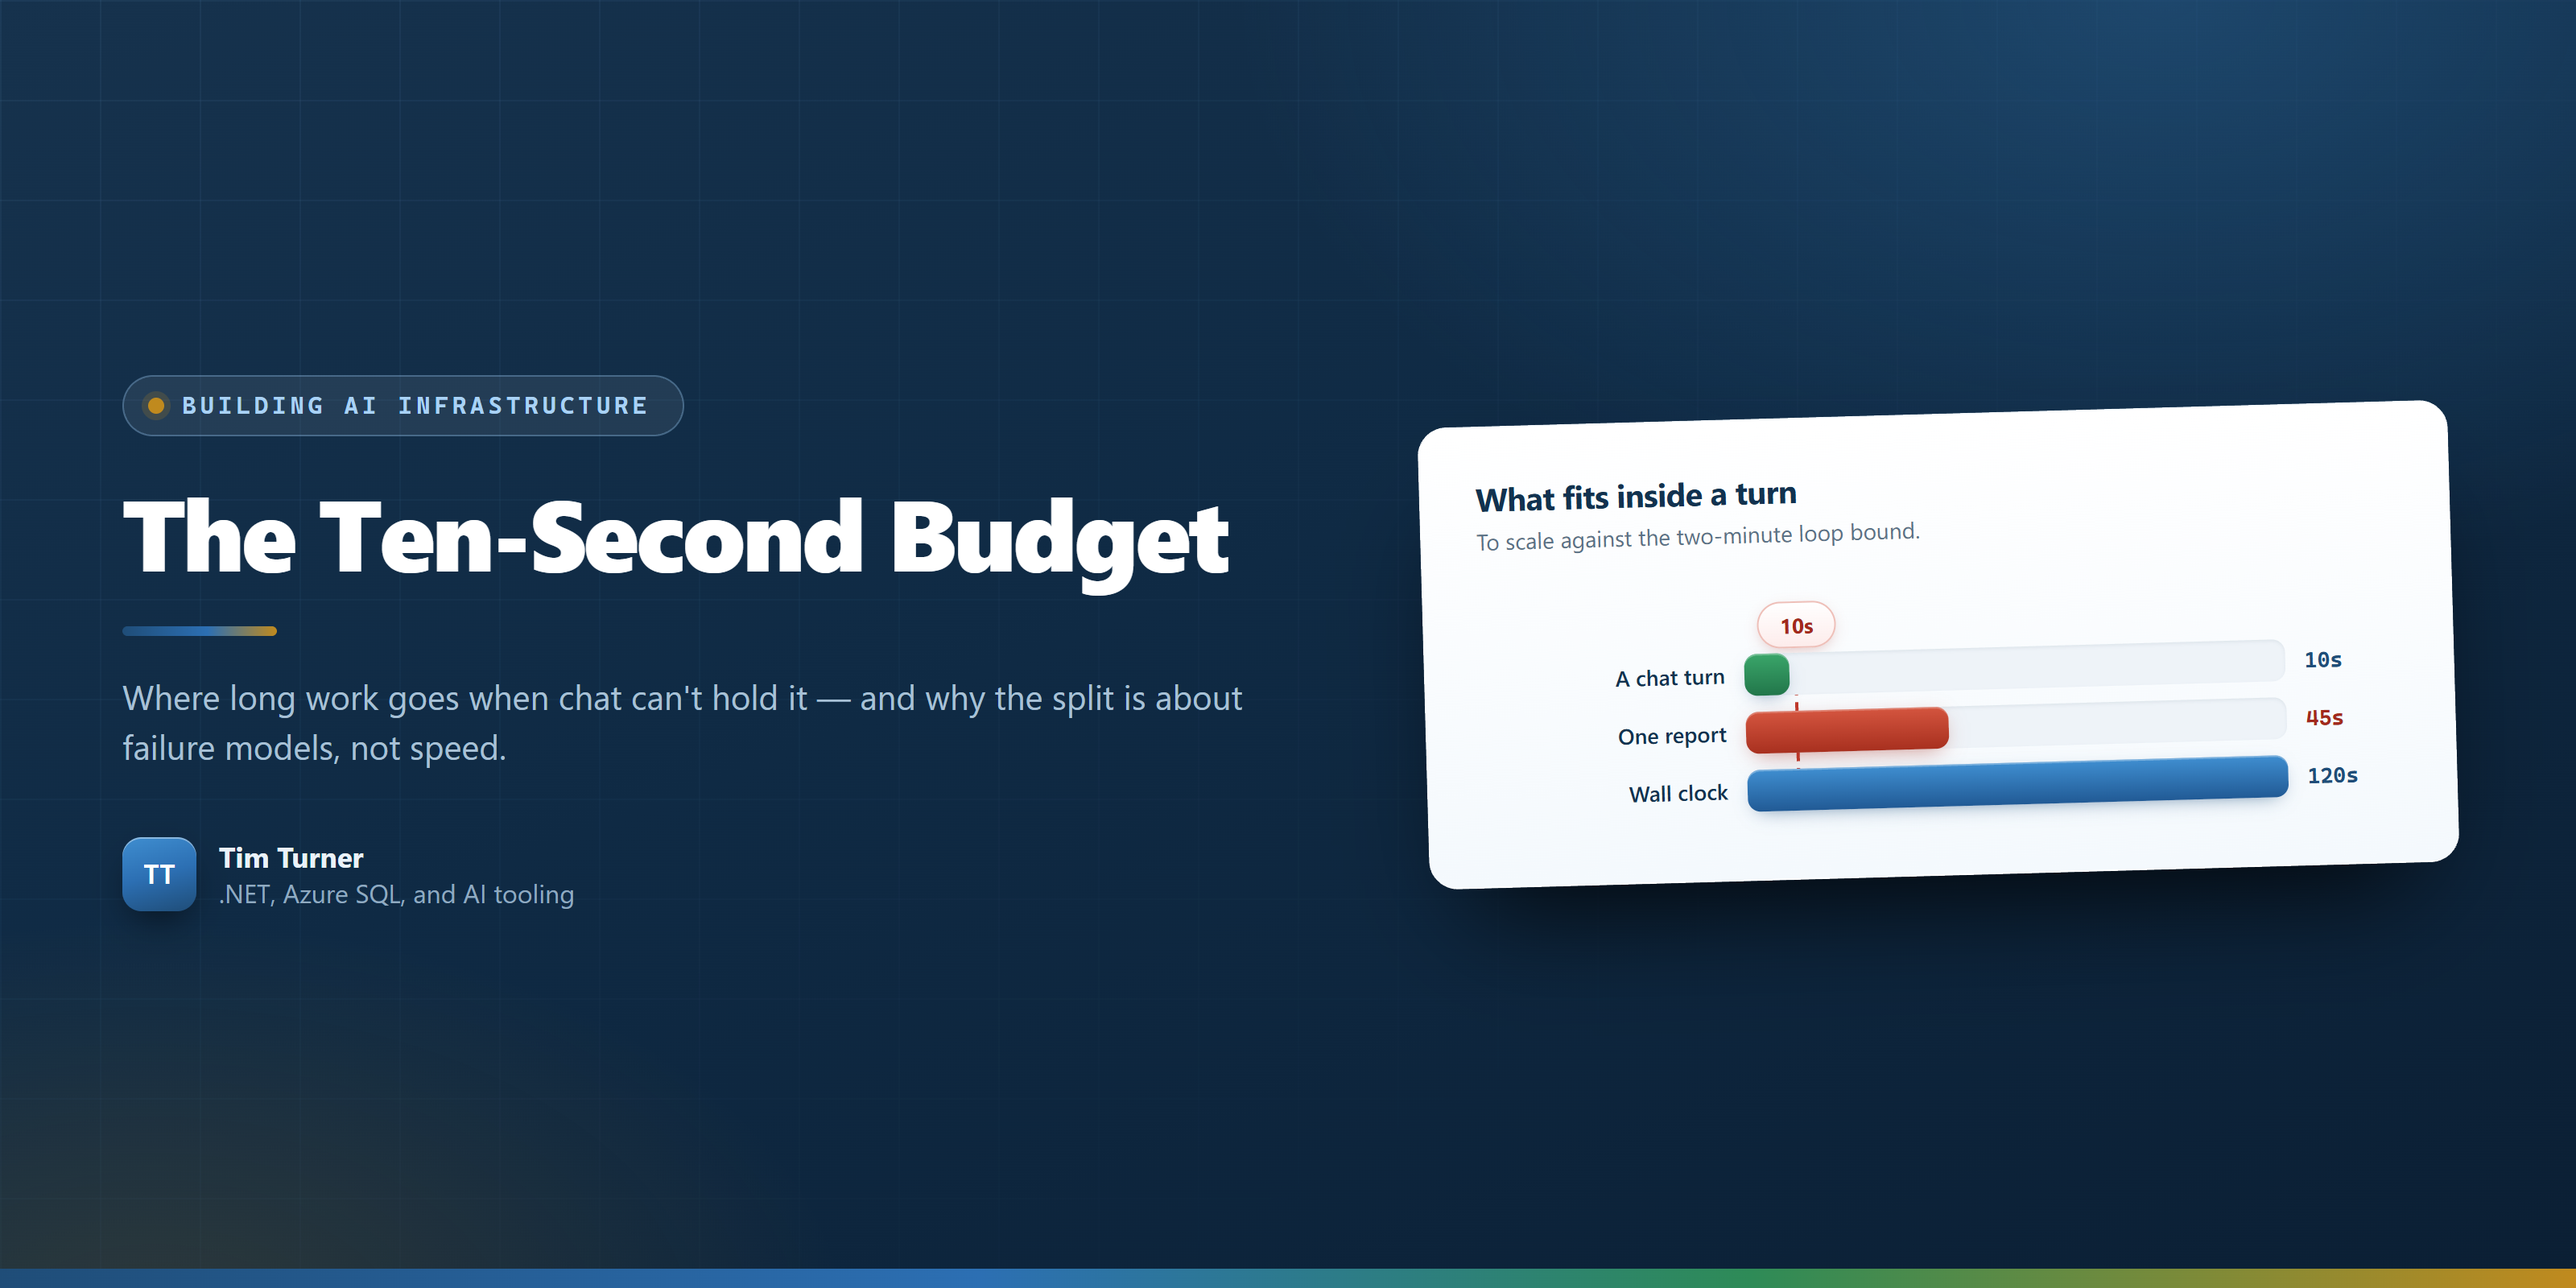
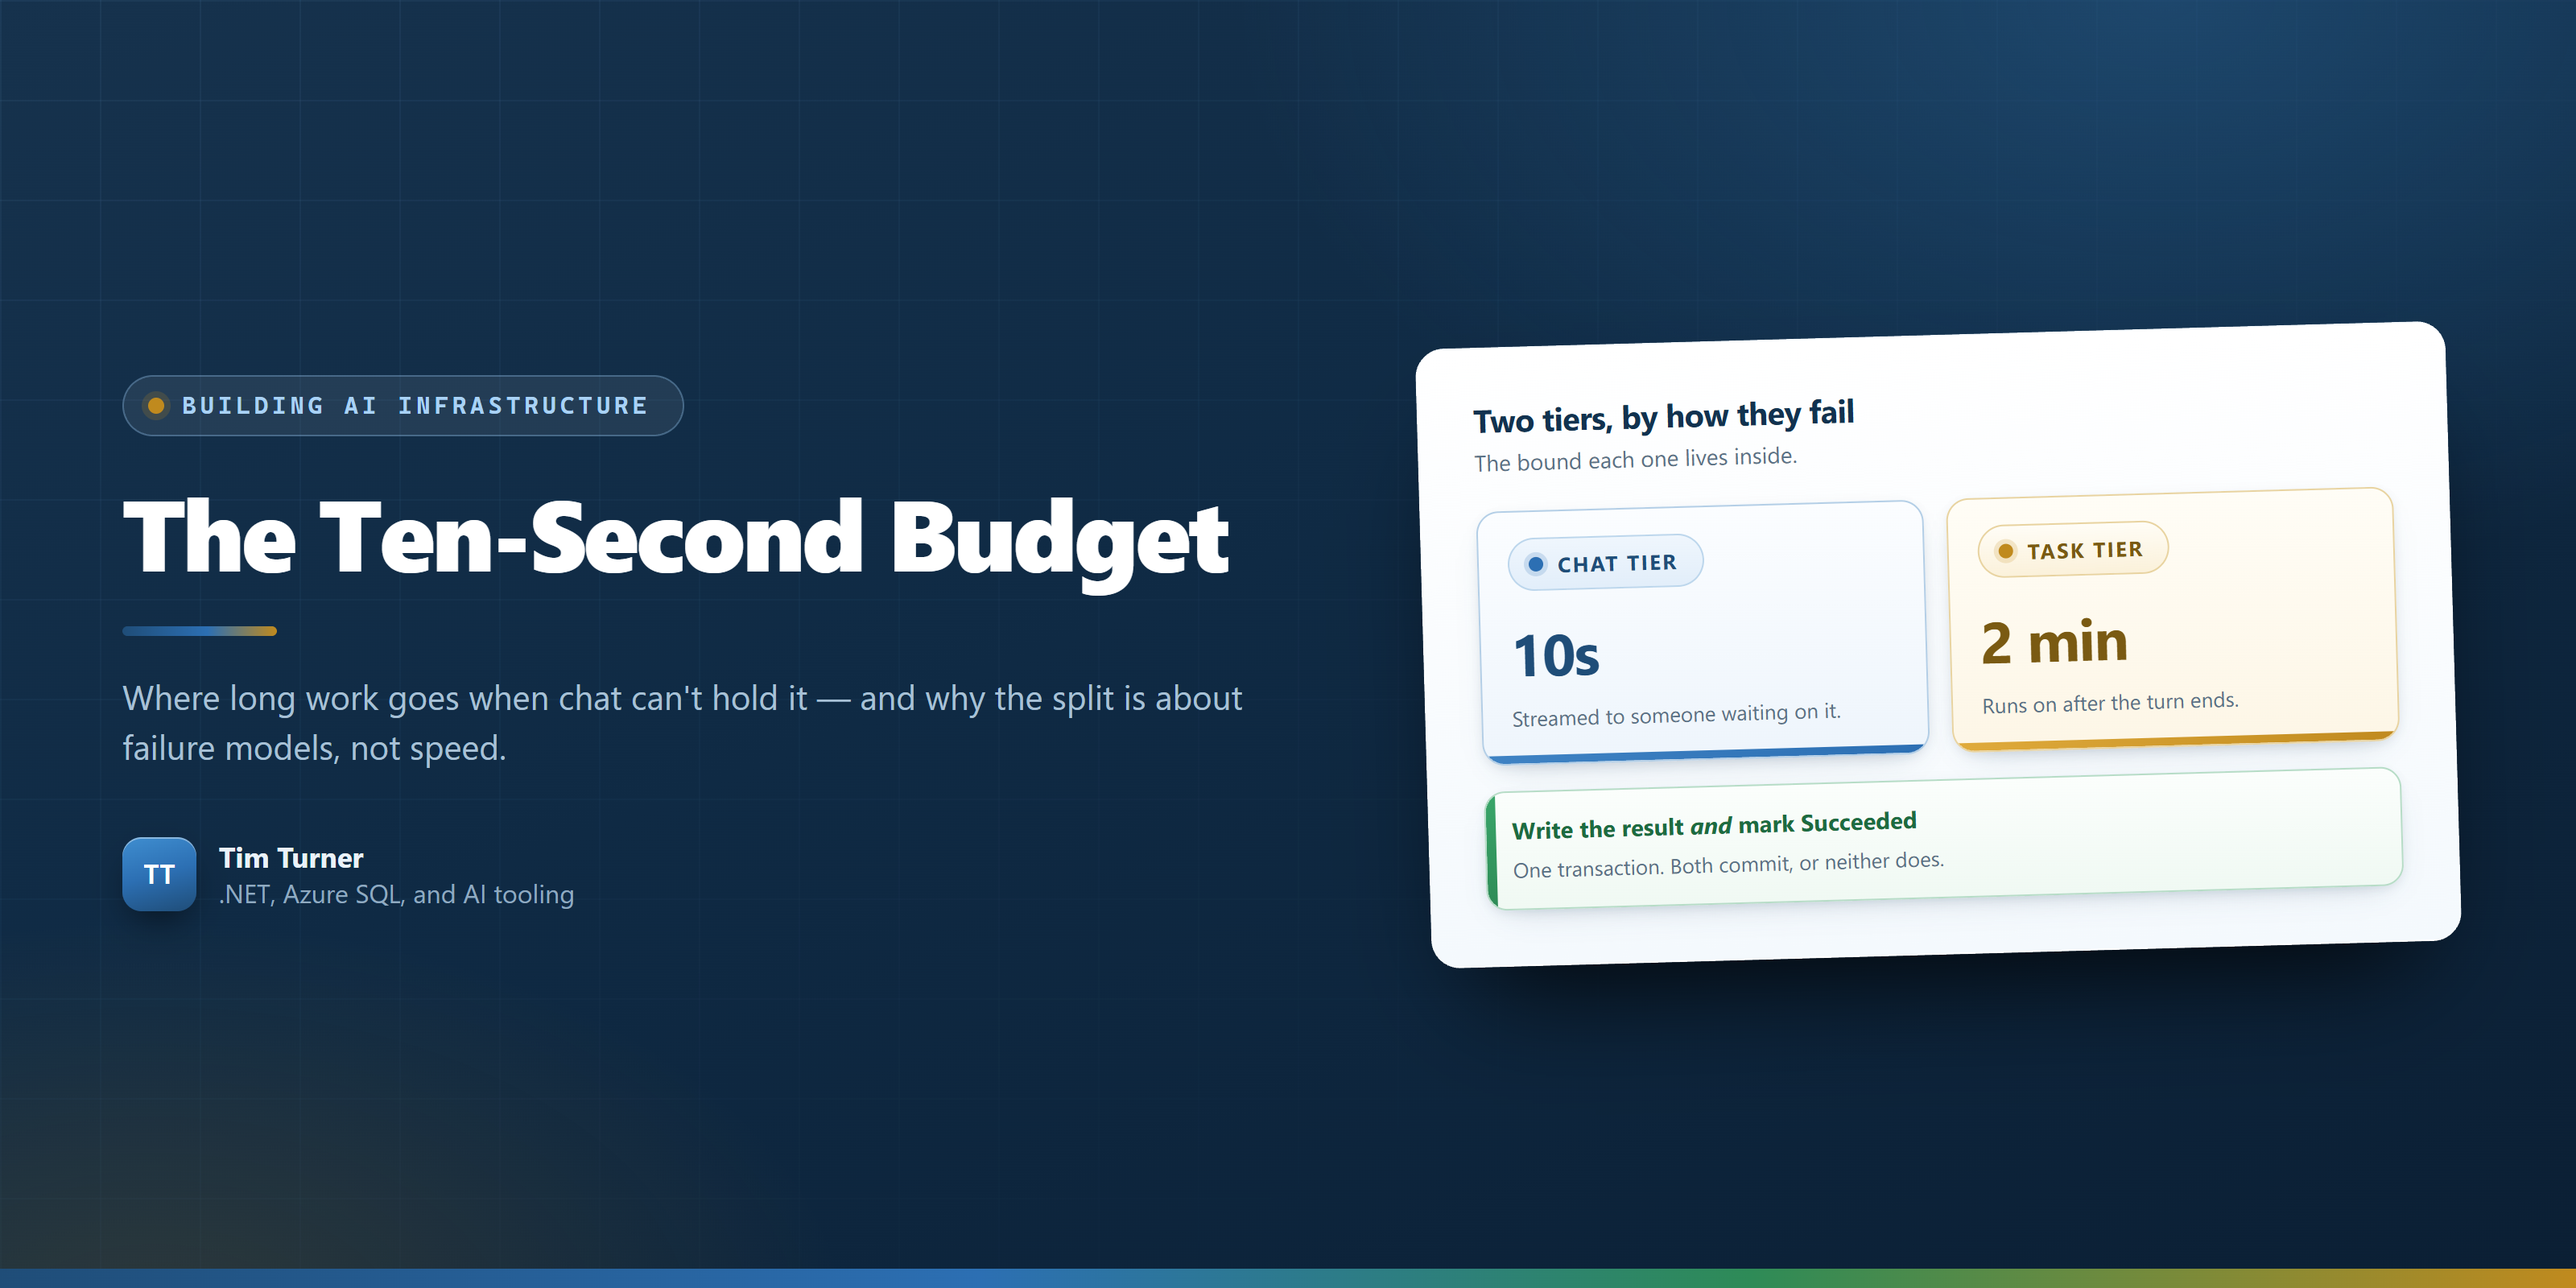
Swap the header card to the two-tiers figure
The header embedded a miniature of turn-budget.html and the body embeds
the full version twenty lines later, so a reader met the same three bars
twice inside the first screen and a half. The card now carries the
two-tiers content instead: the two bounds, and the completing
transaction as one box.

It also survives the thumbnail better. At 330px the three bars collapsed
into indistinct lines, where 10s and 2 min stay readable.

Lockup untouched - kicker, monogram, title treatment and foot bar are
the part a reader recognizes in a feed.

Changed region(s): [[0.5312, 0.25, 0.9688, 0.75]]

diff --git a/ten-second-budget/support-files/header-ten-second-budget.html b/ten-second-budget/support-files/header-ten-second-budget.html
@@ -7,6 +7,10 @@
   width Medium shows in a feed card. A light-ground variant was built and
   rejected: it read as no image at all against Medium's white page.
 
+  The card holds a miniature of two-tiers.html, not turn-budget.html: the body
+  embeds the turn-budget bars, and carrying the same chart in the header meant a
+  reader met the identical figure twice inside the first screen and a half.
+
   Drawn here with Article 5's content. To reuse: copy into
   <article>/support-files/header-<slug>.html, change the title, the subtitle and
   the figure in the right-hand card, and leave everything else alone. The kicker,
@@ -53,29 +57,25 @@
 
   <div class="hdr-art">
     <div class="hdr-card">
-      <div class="fig-title">What fits inside a turn</div>
-      <div class="fig-sub">To scale against the two-minute loop bound.</div>
+      <div class="fig-title">Two tiers, by how they fail</div>
+      <div class="fig-sub">The bound each one lives inside.</div>
 
-      <div class="bars" style="padding-top: 48px">
-        <div class="bar-zone" style="left: 168px; right: 74px; top: 48px">
-          <div class="threshold" style="left: 8.3%"><div class="threshold-label">10s</div></div>
+      <div style="display:grid; grid-template-columns:1fr 1fr; gap:14px; margin-top:20px">
+        <div class="panel cool" style="padding:16px 18px; min-height:158px; box-sizing:border-box">
+          <span class="tag info" style="margin:0"><span class="dot"></span>Chat tier</span>
+          <div class="panel-bound" style="margin:14px 0 8px"><span class="num" style="font-size:36px">10s</span></div>
+          <div style="font-size:13px; color:var(--muted); line-height:1.45">Streamed to someone waiting on it.</div>
         </div>
+        <div class="panel warm" style="padding:16px 18px; min-height:158px; box-sizing:border-box">
+          <span class="tag" style="margin:0; background:linear-gradient(180deg,#fffdf6,#fbf1da); color:#7a5a12; border:1px solid #e8d3a0"><span class="dot" style="background:#c08a1e; box-shadow:0 0 0 3px rgba(192,138,30,.18)"></span>Task tier</span>
+          <div class="panel-bound" style="margin:14px 0 8px"><span class="num" style="font-size:36px">2 min</span></div>
+          <div style="font-size:13px; color:var(--muted); line-height:1.45">Runs on after the turn ends.</div>
+        </div>
+      </div>
 
-        <div class="bar-row" style="grid-template-columns: 152px 1fr 58px; gap: 12px; margin-bottom: 10px">
-          <div class="bar-name" style="font-size: 13.5px">A chat turn</div>
-          <div class="bar-track" style="height: 26px"><div class="bar-fill ok" style="width: 8.3%"></div></div>
-          <div class="bar-val" style="font-size: 13.5px">10s</div>
-        </div>
-        <div class="bar-row" style="grid-template-columns: 152px 1fr 58px; gap: 12px; margin-bottom: 10px">
-          <div class="bar-name" style="font-size: 13.5px">One report</div>
-          <div class="bar-track" style="height: 26px"><div class="bar-fill over" style="width: 37.5%"></div></div>
-          <div class="bar-val over" style="font-size: 13.5px">45s</div>
-        </div>
-        <div class="bar-row" style="grid-template-columns: 152px 1fr 58px; gap: 12px; margin-bottom: 0">
-          <div class="bar-name" style="font-size: 13.5px">Wall clock</div>
-          <div class="bar-track" style="height: 26px"><div class="bar-fill" style="width: 100%"></div></div>
-          <div class="bar-val" style="font-size: 13.5px">120s</div>
-        </div>
+      <div class="node green" style="margin-top:16px; padding:14px 16px">
+        <div class="node-name" style="font-size:14.5px">Write the result <i>and</i> mark Succeeded</div>
+        <div class="node-meta" style="margin-top:6px">One transaction. Both commit, or neither does.</div>
       </div>
     </div>
   </div>

diff --git a/ten-second-budget/README.md b/ten-second-budget/README.md
@@ -97,7 +97,7 @@ nobody asked for — and this is the set of invariants that survive it.
 
 | File | What it is |
 |---|---|
-| [`header-ten-second-budget.png`](header-ten-second-budget.png) / [`.webp`](header-ten-second-budget.webp) | Header image, 1600x800. Authored HTML rendered through headless Chrome — no image model. Source in [`support-files/header-ten-second-budget.html`](support-files/header-ten-second-budget.html). |
+| [`header-ten-second-budget.png`](header-ten-second-budget.png) / [`.webp`](header-ten-second-budget.webp) | Header image, 1600x800. Authored HTML rendered through headless Chrome — no image model. The card holds a miniature of the two-tiers figure rather than the turn-budget bars, so the header and the body do not show the same chart inside the first screen. Source in [`support-files/header-ten-second-budget.html`](support-files/header-ten-second-budget.html). |
 | [`turn-budget.png`](turn-budget.png) / [`.webp`](turn-budget.webp) | The three bounds drawn to scale against the two-minute loop bound, with the ten-second budget drawn through them. Source in [`support-files/turn-budget.html`](support-files/turn-budget.html). |
 | [`two-tiers.png`](two-tiers.png) / [`.webp`](two-tiers.webp) | The tiers labeled by failure model rather than happy path, and the single completing transaction that keeps the result table answerable. Source in [`support-files/two-tiers.html`](support-files/two-tiers.html). |
 | [`code-samples/01-task-kickoff-skill.cs`](code-samples/01-task-kickoff-skill.cs) | The kickoff skill. The point of the file is how ordinary it is — no branch, no background-mode flag, nothing for the existing tool-surface controls to miss. The row is created `Pending` before the message is enqueued, and the order is load-bearing. |
